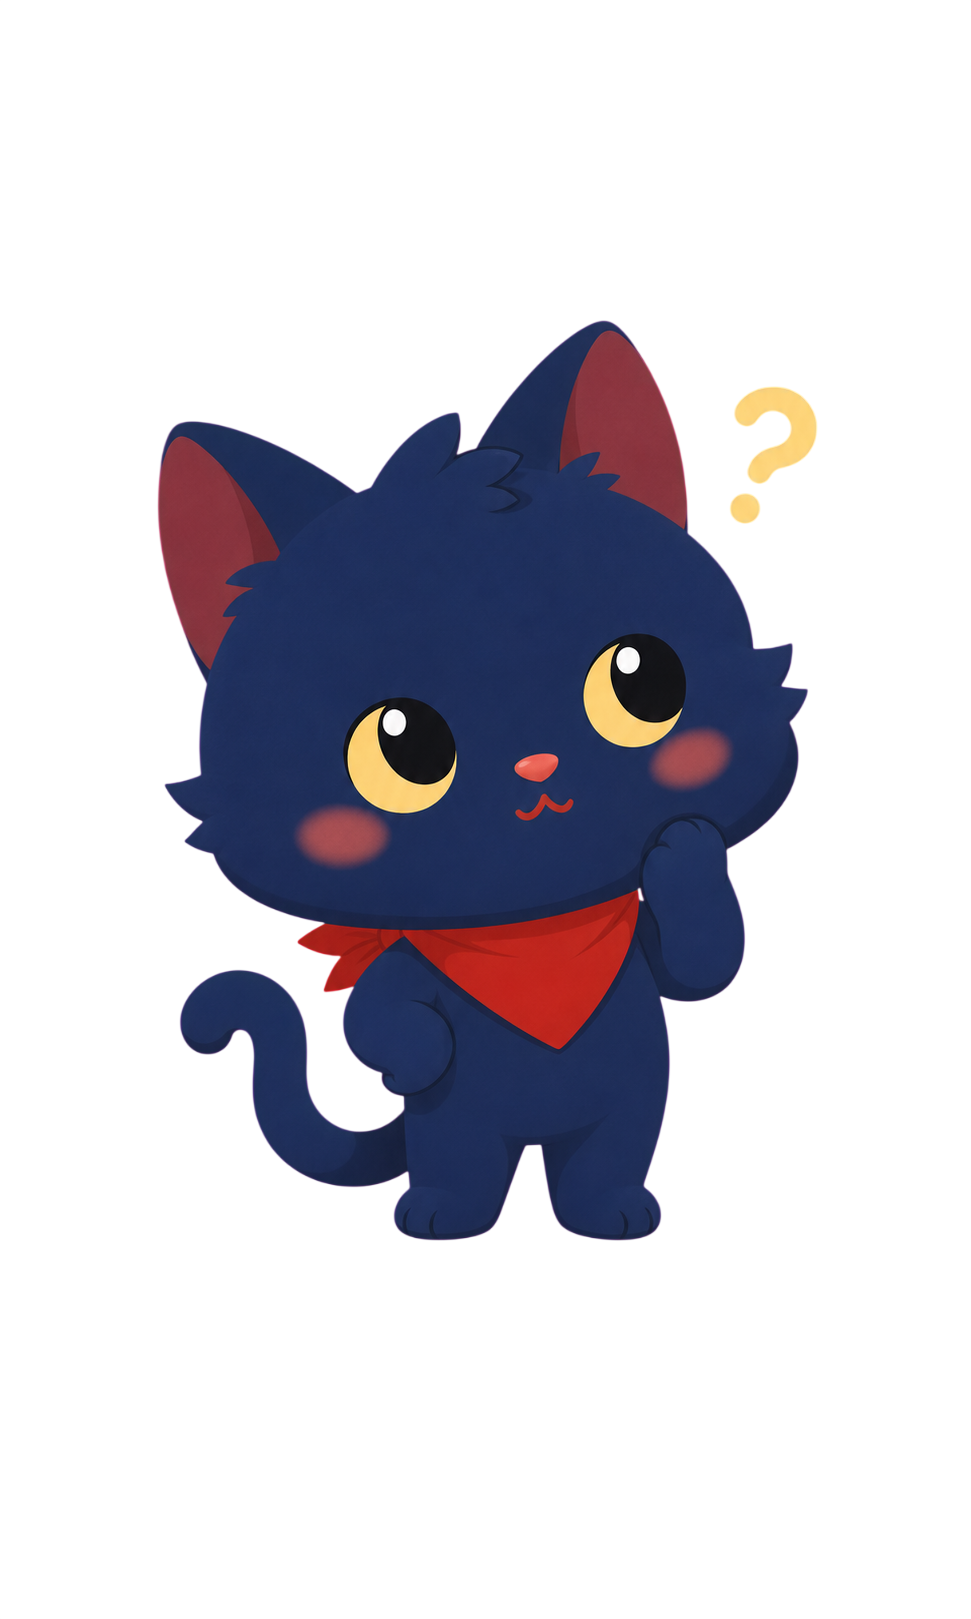
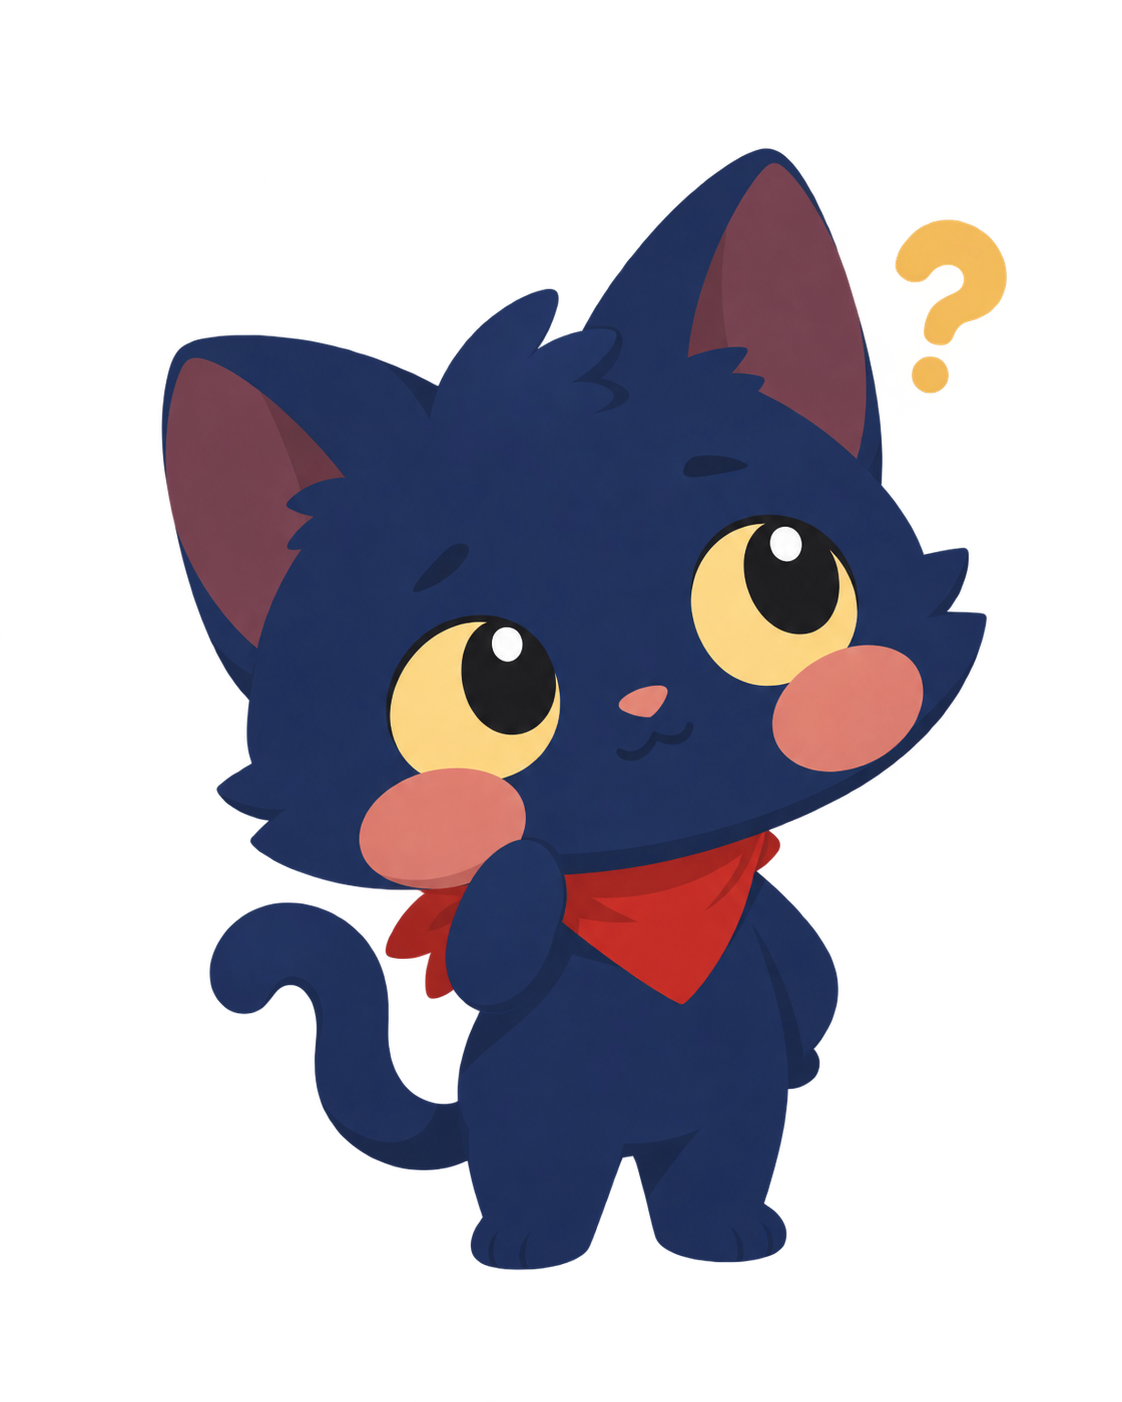
chore : COMMON-46 볼따구 컷 시트 기준 재생성 · 옛 컷 cheek-slim 보존 · cheek-slim 시트 추가 · README 갱신

Changed region(s): [[0.1236, 0.092, 0.896, 0.9201]]

diff --git a/README.md b/README.md
@@ -28,7 +28,7 @@
 | --- | --- |
 | 대상 | `naero` · `nambul` · `law-scale` · `law-gavel` · `law-book` · `trio`(로 3인) · `compare`(내로 · 로울 · 남불 비교) · `reenact-common`(공용 재연, 두 번째 세트부터 `reenact-common-2`) · `reenact-case-{사건 id}`(사건별 재연) · `personality-{번호}_{캐릭터}`(성향 결과) · `all`(여럿이 함께 나오는 시트) |
 | 종류 | `standing`(스탠딩) · `sheet`(시트) · `cut`(장면 컷) · `cut-cheek`(볼따구 컷) · `icon`(아이콘) |
-| 세부 | 시트: `reference` · `acting` · `role-outfits` · `deform-ranma` · `deform-cheek` · `deform-ppg`, 컷: `{장면}-{감정}` (예: `guide-neutral`) |
+| 세부 | 시트: `reference` · `acting` · `role-outfits` · `deform-ranma` · `deform-cheek` · `deform-cheek-slim` · `deform-ppg`, 컷: `{장면}-{감정}` (예: `guide-neutral`) |
 
 예: `naero_standing.png` · `law-gavel_sheet_reference.png` · `nambul_cut_guide-neutral.png` · `naero_icon_face-cheer.png` · `personality-06_naero_pinky-promise.png` · `trio_cut_idle.png` · `reenact-common_cut_headline.png`
 
@@ -47,12 +47,13 @@ character/
 │   ├── acting/        연기 시트
 │   ├── wardrobe/      의상 시트(`{캐릭터}_sheet_wardrobe.png`, 내로 · 남불 · 로 3종 5장)
 │   ├── props_sheet_catalog.png  소품 시트
-│   ├── deform/        데포르메 대표 시트(ranma · cheek · ppg) · 마스코트 로 시트 3장(`{로}_sheet_deform-mascot.png`) · 5명 라인업 시트(`{캐릭터}_sheet_deform-lineup.png`)
+│   ├── deform/        데포르메 대표 시트(ranma · cheek · ppg) · 옛 볼따구 컷 그림체 시트(`{캐릭터}_sheet_deform-cheek-slim.png`) · 마스코트 로 시트 3장(`{로}_sheet_deform-mascot.png`) · 5명 라인업 시트(`{캐릭터}_sheet_deform-lineup.png`)
 │   └── role-outfits/  역할 의상 시트(내로 · 남불)
 ├── cuts/         화면에 쓰는 컷(투명 배경)
 │   ├── {캐릭터}/base/   장면 컷(하위 폴더로 나눔) · {캐릭터}/icon/   아이콘
 │   │   ├── scene/   장면 컷 `{캐릭터}_cut_{장면}-{감정}.png`
-│   │   ├── cheek/   볼따구 컷 `{캐릭터}_cut-cheek_*.png` (내로 · 남불)
+│   │   ├── cheek/   볼따구 컷 `{캐릭터}_cut-cheek_*.png` (내로 · 남불, 시트 `deform-cheek` 기준 · 만두형 몸통)
+│   │   ├── cheek-slim/  옛 볼따구 컷 `{캐릭터}_cut-cheek-slim_*.png` (내로 · 남불, 호리호리한 몸통 · 옅은 볼 · 작은 눈 · 보존용)
 │   │   ├── role/    재연 역할 컷 `{캐릭터}_cut-role-{judge|prosecutor|defense|actor|case-1}_idle-neutral.png` (내로 · 남불)
 │   │   └── mascot/  마스코트 버전 로 컷 `{로}_cut-mascot_{장면}-{감정}.png` (로 3종)
 │   ├── personality/     성향 결과 컷(16유형 × 2캐릭터)
@@ -60,7 +61,7 @@ character/
 │   ├── reenact/case-{사건 id}/  사건별 재연 컷(`headline` · `sub-1` · `detail-1`)
 │   ├── trio/            로 3인 합의 컷(`trio_cut_*` 기존 · `trio_cut-mascot_*` 마스코트 버전)
 │   └── compare/         내로 · 로울 · 남불 비교 컷(`compare_cut_*` 기존 · `compare_cut-mascot_*` 마스코트 버전)
-└── _original/    생성 직후 원본 백업(160장, `original_` 접두사)
+└── _original/    생성 직후 원본 백업(166장, `original_` 접두사)
 ```
 
 - **쓸 때는 `standing/` · `sheets/` · `cuts/`의 파일을 쓴다.** `_original/`은 백업이다.
@@ -88,6 +89,8 @@ character/
 > 10/19 추가: 마스코트 버전 로 스탠딩 · 기준 시트 6장, 사건 1 재연 컷 3장, 소품 시트, 일상 의상 시트 2장(COMMON-46).
 >
 > 10/20 추가: 로 의상 시트 3장, 5명 라인업 시트 5장, 마스코트 로 컷 9장, 마스코트 합의 · 비교 컷 3장, 내로 · 남불 역할 컷 10장. `cuts/{캐릭터}/base/`를 `scene` · `cheek` · `role` · `mascot` 하위 폴더로 나눴다. 로 데포르메 시트 중 cheek · ranma · ppg 9장은 아직 없다.
+>
+> 10/20 추가(2): 볼따구 컷을 시트 `deform-cheek` 기준(짧은 만두형 몸통 · 납작한 볼)으로 4장 다시 만들어 `base/cheek/`에 넣었다. 이전 컷 4장은 `base/cheek-slim/`(`cut-cheek-slim_*`)으로 이름을 바꿔 보존하고, 그 그림체의 시트 2장(`deform-cheek-slim`)을 새로 만들었다. 새 시트는 눈이 작고 볼 강조가 적은 옛 아기 캐릭터 느낌을 노렸지만 기존 시트와 차이가 크지 않다. 재생성 여부는 검수 후 정한다.
 
 10/14에 검수한 이미지는 모두 통과했다(샘플 기준).
 
